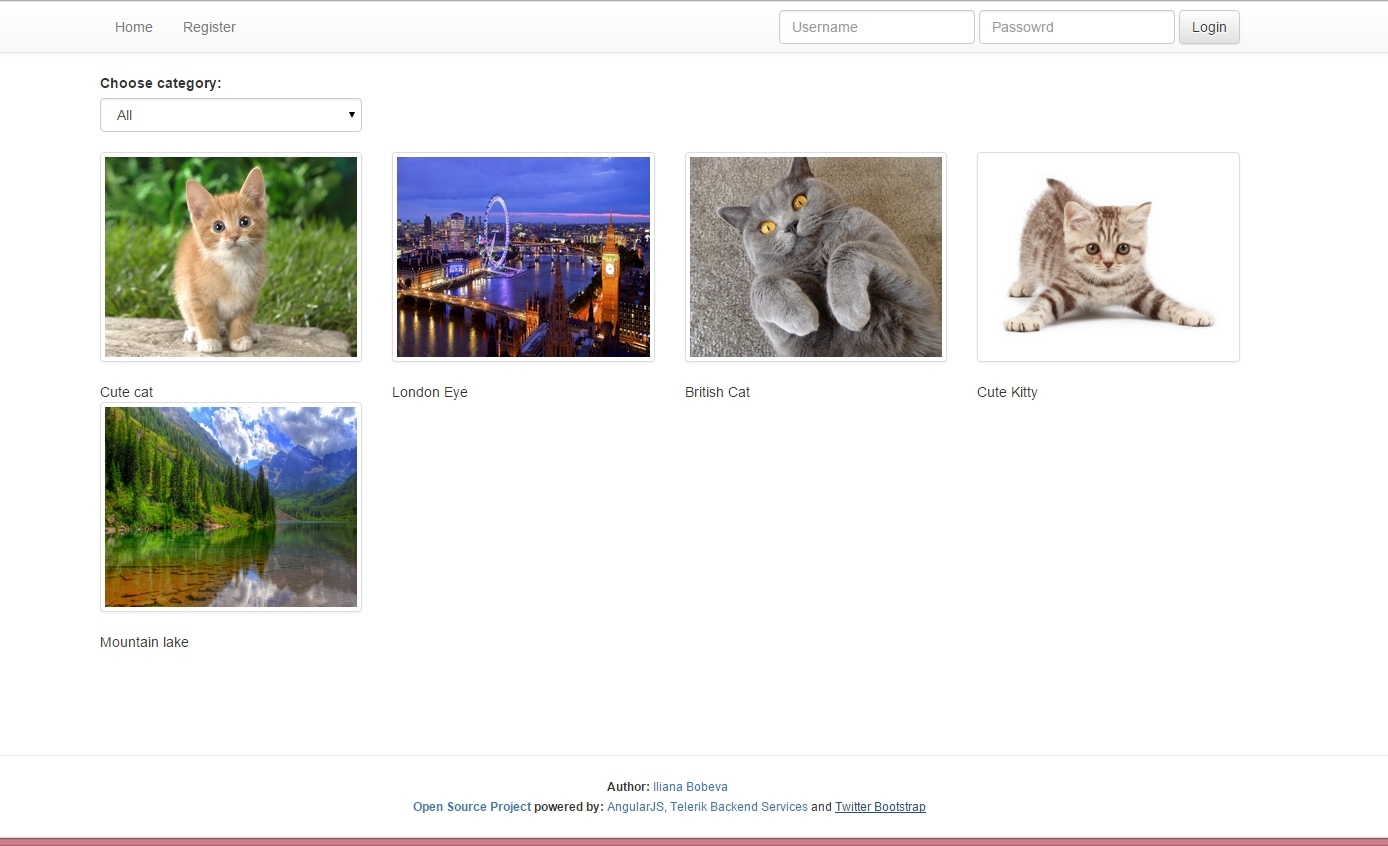
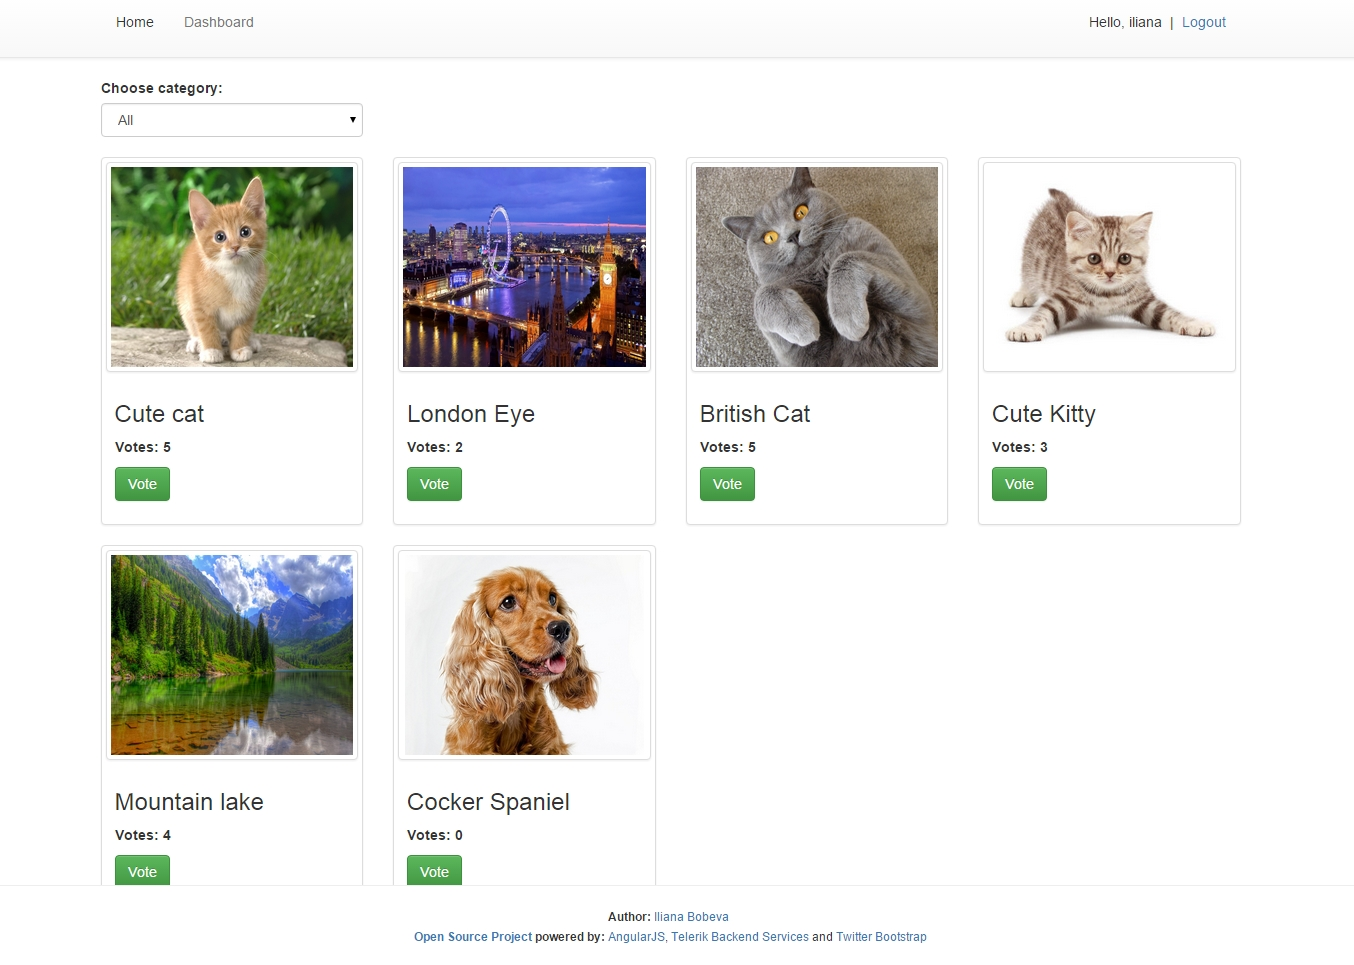
Update homepage image

diff --git a/README.md b/README.md
@@ -4,7 +4,7 @@
 
 PinTELERest is a single-page web application inspired by the Telerik Academy's course [Single-page applications with JavaScript](http://telerikacademy.com/Courses/Courses/Details/169).
 The project is built with [AngularJS](https://angularjs.org/), [Telerik Backend Services](http://www.telerik.com/backend-services) and [Twitter Bootstrap](http://getbootstrap.com/).
-PinTELERest provides basic functionality for registering users, logging in and logging out, adding, deleting and editing pins.
+PinTELERest provides basic functionality for registering users, logging in and logging out, voting for pins, adding, deleting and editing pins.
 
 [img1]: /images/homepage.jpg "Homepage"
 ![Alt text][img1] 
